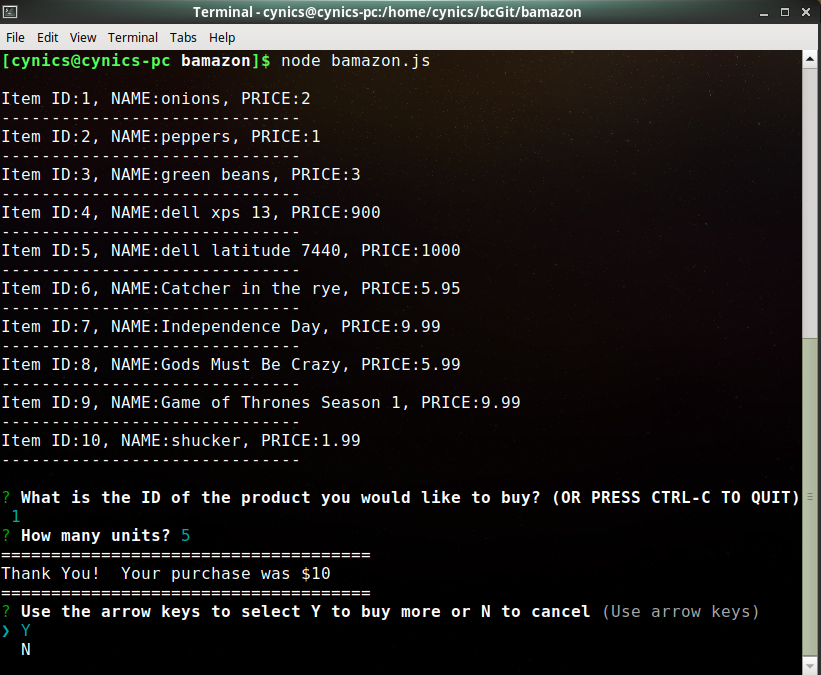
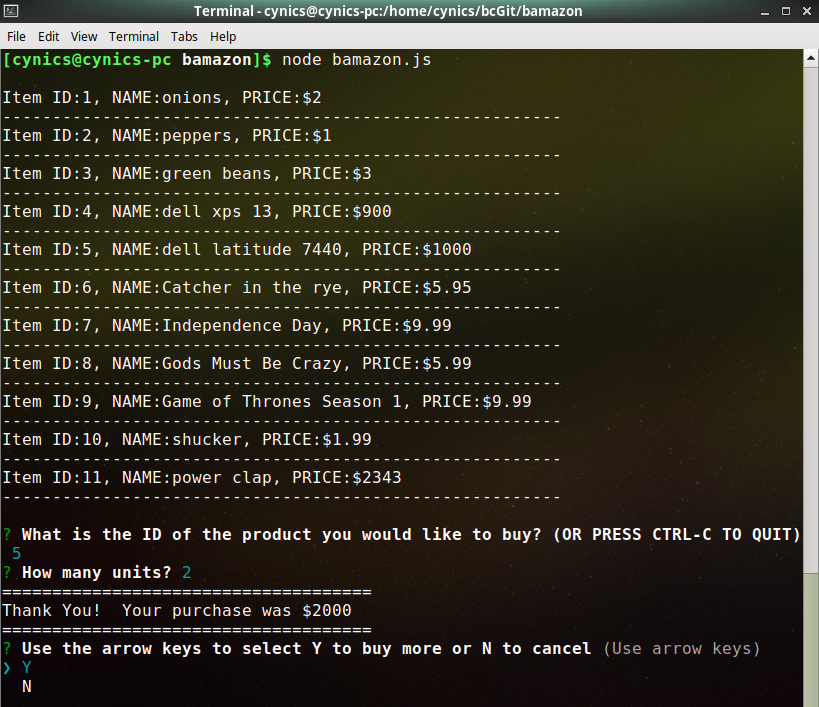
updated screenshots

diff --git a/bamazonmanager.js b/bamazonmanager.js
@@ -165,7 +165,7 @@ function displayProduct(){
             console.log('');
             console.log(`----------------------------------------------------------------`)
             res.forEach(function(element) {
-                console.log(`Item ID:${element.item_id}, NAME:${element.product_name}, PRICE:${element.price}, Qty:${element.stock_qty}`);
+                console.log(`Item ID:${element.item_id}, NAME:${element.product_name}, PRICE:$${element.price}, Qty:${element.stock_qty}`);
                 console.log(`----------------------------------------------------------------`)
             }, this);
             console.log('');    
@@ -181,7 +181,7 @@ function displayLowInv(){
             console.log('');
             console.log(`----------------------------------------------------------------`)
             res.forEach(function(element) {
-                console.log(`Item ID:${element.item_id}, NAME:${element.product_name}, PRICE:${element.price}, Qty:${element.stock_qty}`);
+                console.log(`Item ID:${element.item_id}, NAME:${element.product_name}, PRICE:$${element.price}, Qty:${element.stock_qty}`);
                 console.log(`----------------------------------------------------------------`)
             }, this);
             console.log('');    

diff --git a/bamazon.js b/bamazon.js
@@ -106,8 +106,8 @@ function displayProduct(){
         function(err, res){
             console.log('');
             res.forEach(function(element) {
-                console.log(`Item ID:${element.item_id}, NAME:${element.product_name}, PRICE:${element.price}`);
-                console.log(`------------------------------`)
+                console.log(`Item ID:${element.item_id}, NAME:${element.product_name}, PRICE:$${element.price}`);
+                console.log(`--------------------------------------------------------`)
             }, this);
             console.log('');    
             runInquirer();
